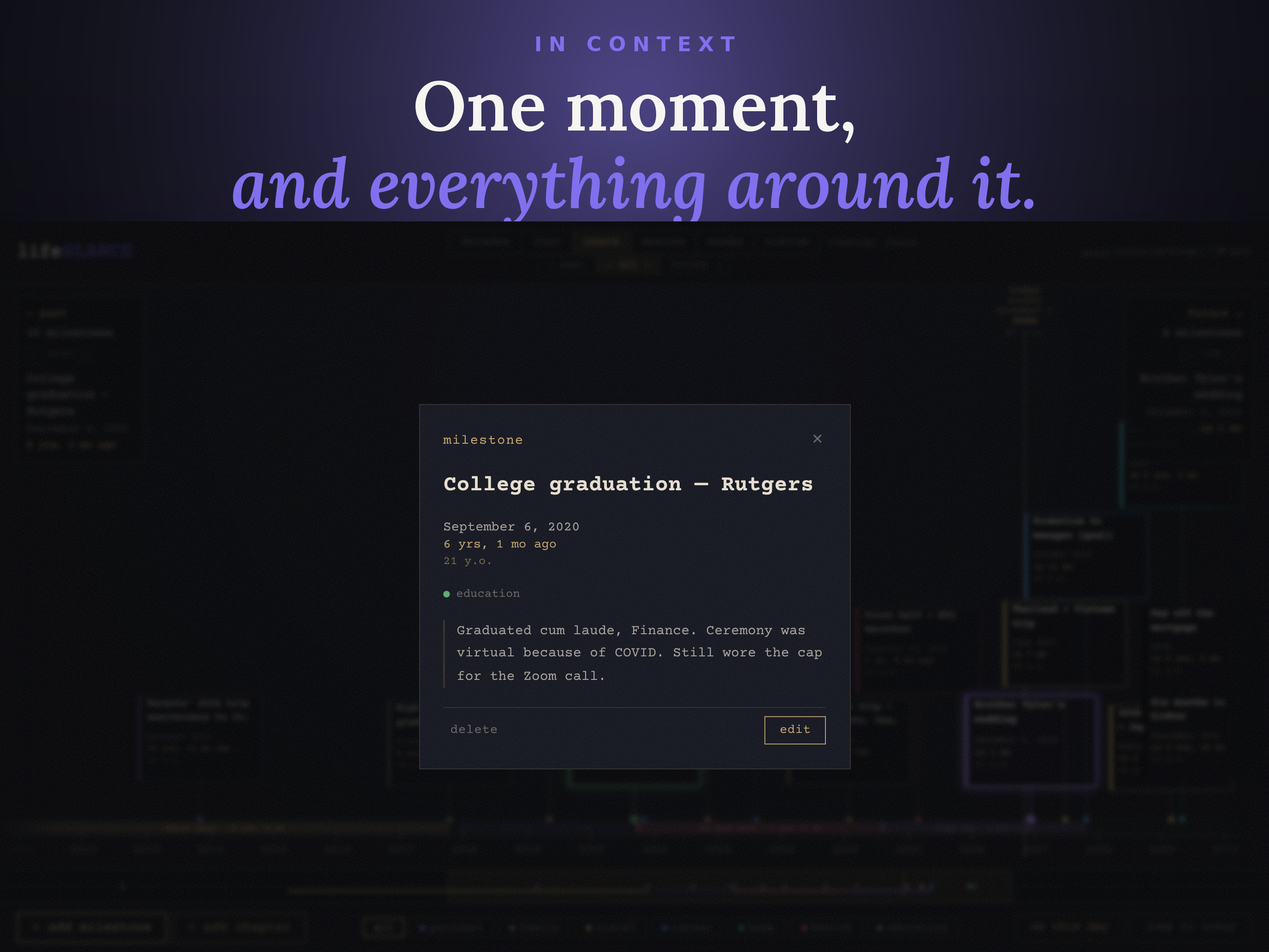
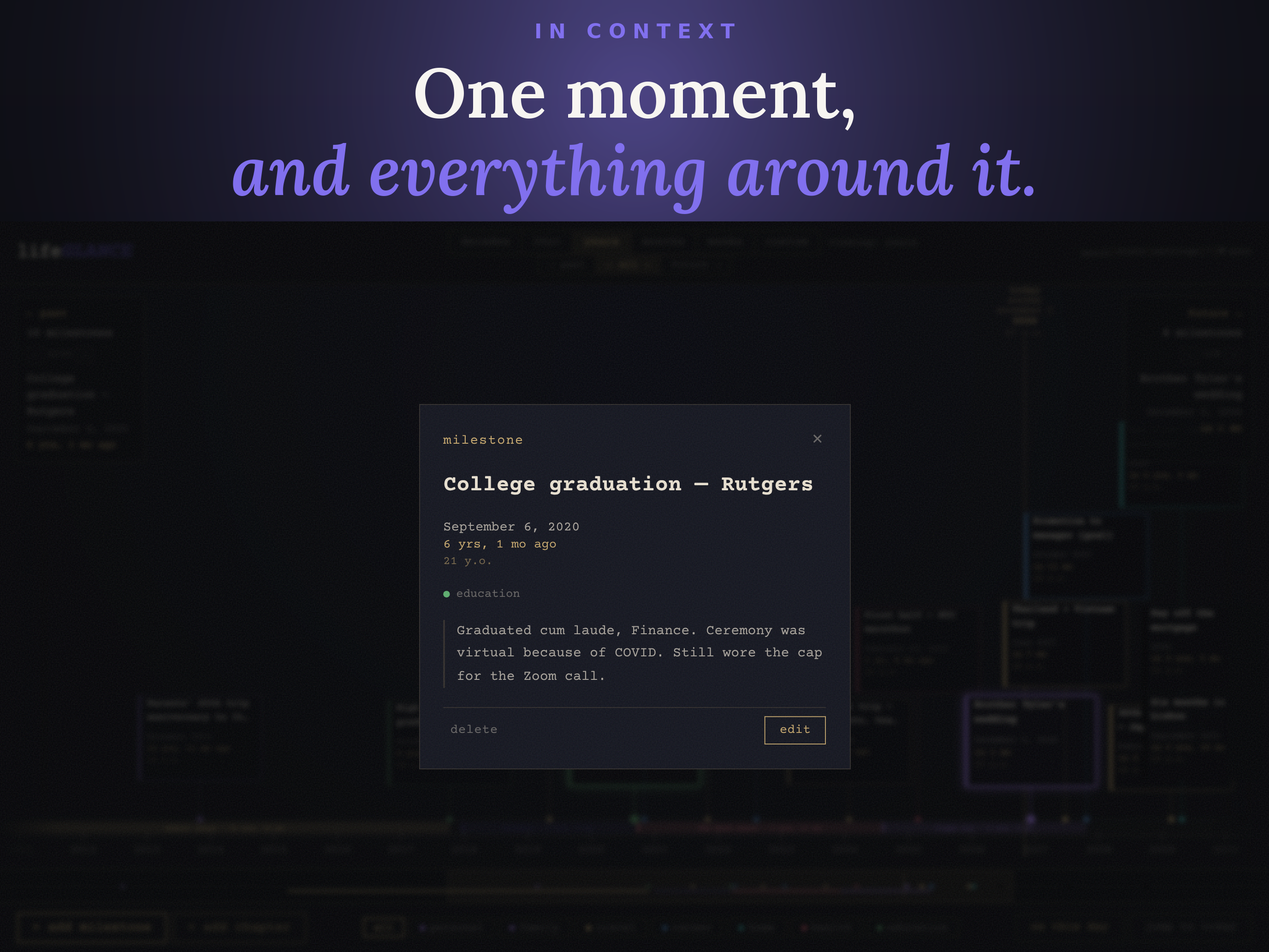
Keep caption descenders out of the pane on the band layouts
The second tablet frame in all three sizes had the tails cut off the y
and the g in "and everything around it.". The band layouts paste the
pane at the band line, and the caption's head_y fraction was tuned on
a second line with no descender, so the ink ran 12px past the band on
the iPad and 8 and 10 on the Play tablets. "all in one window." has no
descender, which is why shot 6 never showed it.

draw_caption now takes an ink limit and measures the real text bbox
against it. An overflowing caption is lifted by the excess — there is
slack above the eyebrow — and the headline only shrinks if lifting
alone cannot clear it. A caption that already fits is untouched, so
shot 6 renders identically: same size, same position, lowest painted
row still 453 of 480.

Only the three affected frames are recomposed; the other thirteen are
byte-identical.

Claude-Session: https://claude.ai/code/session_01T5Xvg6UVv4Aoz2NEJkswDc

Changed region(s): [[0.1875, 0.031, 0.8125, 0.2481]]

diff --git a/scripts/compose-apple-frames.py b/scripts/compose-apple-frames.py
@@ -84,25 +84,48 @@ def build_bg(w, h, glow_y=0.16, glow_x=0.5):
 
 
 def draw_caption(canvas, eyebrow, l1, l2, *, eb_y, eb_size, eb_track,
-                 head_y, head_size, head_pad, line_ratio=1.14, cx=None, column=None):
+                 head_y, head_size, head_pad, line_ratio=1.14, cx=None, column=None,
+                 limit=None):
     """Kit caption pattern: tracked all-caps eyebrow in the brand colour, then
     two Lora lines — warm white above, brand-colour italic below. Shrinks the
     headline to fit rather than wrapping, exactly as the kit framers do."""
     d = ImageDraw.Draw(canvas)
     if cx is None:
         cx = canvas.width // 2
-    tracked(d, cx, eb_y, eyebrow, sans(eb_size), VIOLET, eb_track)
 
     size = head_size
     target = (column or canvas.width) - head_pad
     longest = max(d.textlength(l1, font=serif(size)), d.textlength(l2, font=serif(size, it=True)))
     if longest > target:
         size = int(size * target / longest)
-    f1, f2 = serif(size), serif(size, it=True)
-    lh = int(size * line_ratio)
-    d.text((cx - d.textlength(l1, font=f1) / 2, head_y), l1, font=f1, fill=WARM_WHITE)
-    d.text((cx - d.textlength(l2, font=f2) / 2, head_y + lh), l2, font=f2, fill=VIOLET)
-    return head_y + lh + int(size * 1.25)   # ink bottom, roughly
+
+    # Keep the real ink inside `limit`. The head_y/eb_y fractions were tuned on
+    # a caption whose second line has no descender; one that does ("and
+    # everything around it.") hangs 12px past the iPad band and the pane, which
+    # starts exactly at the band line, slices the tails off the y and the g.
+    # Lift the whole block by the excess first — there is slack above the
+    # eyebrow — and only shrink the headline if lifting alone cannot do it, so
+    # a caption that already fits is left exactly where it was.
+    dy = 0
+    for _ in range(40):
+        f1, f2 = serif(size), serif(size, it=True)
+        lh = int(size * line_ratio)
+        bottom = max(d.textbbox((0, head_y), l1, font=f1)[3],
+                     d.textbbox((0, head_y + lh), l2, font=f2)[3])
+        if limit is None or bottom <= limit:
+            dy = 0
+            break
+        dy = min(bottom - limit, eb_y // 2)   # never crowd the top edge
+        if bottom - dy <= limit:
+            break
+        size -= 2
+    else:
+        dy = min(bottom - limit, eb_y // 2)
+
+    tracked(d, cx, eb_y - dy, eyebrow, sans(eb_size), VIOLET, eb_track)
+    d.text((cx - d.textlength(l1, font=f1) / 2, head_y - dy), l1, font=f1, fill=WARM_WHITE)
+    d.text((cx - d.textlength(l2, font=f2) / 2, head_y + lh - dy), l2, font=f2, fill=VIOLET)
+    return bottom - dy
 
 
 def draw_bullets(canvas, bullets, top, bottom, size=56, gap=130, cx=None):
@@ -274,7 +297,8 @@ def compose_band(sh, lay, pane):
     draw_caption(canvas, sh["eyebrow"], sh["l1"], sh["l2"],
                  eb_y=round(70 * u), eb_size=round(44 * u), eb_track=round(15 * u),
                  head_y=round(132 * u), head_size=round(150 * u),
-                 head_pad=round(560 * u), line_ratio=1.12)
+                 head_pad=round(560 * u), line_ratio=1.12,
+                 limit=band - round(16 * u))
     canvas.paste(pane, (0, H - pane.height))
     return canvas
 

diff --git a/store-assets/README.md b/store-assets/README.md
@@ -234,6 +234,13 @@ the kit (v2.1) is the part that makes the GLANCE listings look like one family:
   for the eyebrow. Lora is vendored in `scripts/assets/fonts` (SIL OFL).
 - **Caption pattern** — tracked all-caps eyebrow in the brand colour, then two
   Lora lines: warm white above, brand-colour italic below, ending in a period.
+  On the band layouts the pane starts exactly at the band line, so the caption
+  is held to a measured ink limit rather than to the `head_y` fraction: the
+  fraction was tuned on a second line with no descender, and one that has them
+  ("and everything around it.") hangs 8–12px past the band and has the tails
+  sliced off its y and g. A caption that overflows is lifted by the excess —
+  there is slack above the eyebrow — and only shrunk if lifting alone cannot do
+  it, so a caption that already fits is left exactly where it was.
 - **Bullet pattern** — Lora italic, text alternating warm white and brand
   colour, each dot the inverse of its line's text colour, dots centred on the
   line's real ink box.
